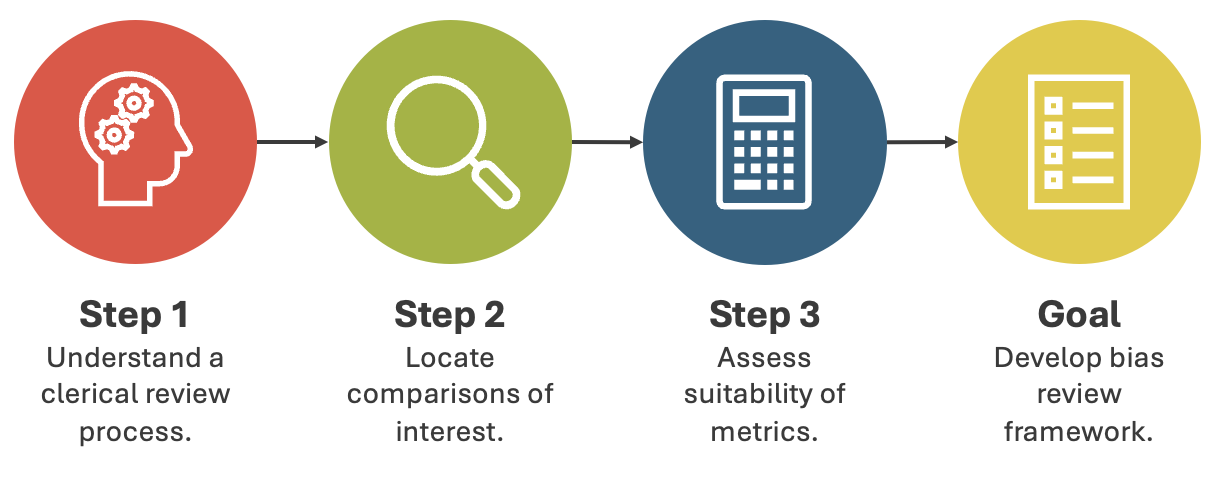
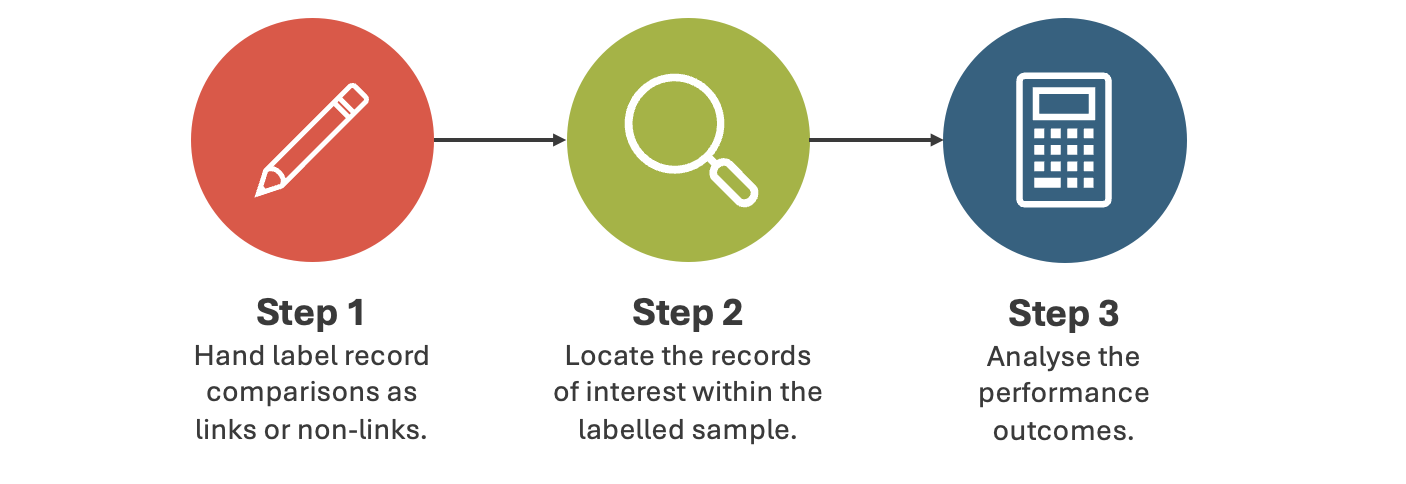
draft 2

diff --git a/docs/blog/posts/2024-07-11-bias.md b/docs/blog/posts/2024-07-11-bias.md
@@ -20,112 +20,91 @@ The internship stemmed from the team's [previous engagement with ethics](https:/
 
 Data science pipelines are intricate processes with lots of decision points. At each of these decision points bias can creep in. If it does, its impact on results can vary as it interacts with different parts of the pipeline. For example, two datasets might react differently to the same bias introduced by a model. Additionally, multiple biases can interact with each other, making it difficult to see their individual effects. Therefore, detecting, monitoring, quantifying, and mitigating bias in data science pipelines is extremely challenging.
 
-Bias can enter a data linking pipeline through two main areas - the **input data** and the **model design**: 
-
-![Image 1](./img/bias_chart.png){ width="650" height="310" }
-
-The input data can contain mistakes (misspellings of names), or legitimate qualities (changing names) which make some records harder to link than others. If these mistakes or qualities are not random, this means the input data will introduce bias. Addressing these mistakes or qualities through data preparation can also introduce bias through standardisation (character removal) or feature-engineering (phonetic representations of names).
-
-Model design settings such as blocking rules (exact name matches) or comparison algorithms (Jaro-Winkler similarity) dictate which records are compared and how they are compared. If these design choices result in a better/worse performance for certain record types, bias will be introduced.
-
-These upstream biases will impact the resulting linked data. When examining a dataset produced by a linkage pipeline, it's difficult to figure out _how_ exactly the biases in the pipeline have affected the data and pinpoint _where_ these biases came from.
-
-## 🪜 Initial steps
-
-The project began by conducting an initial review to address four main areas in relation to bias in data linking: 
-
-**1. Materials**
-
-Both the [wider government](https://www.gov.uk/government/collections/algorithmic-transparency-recording-standard-hub) and the [MoJ](https://www.turing.ac.uk/research/research-projects/building-ethical-framework-data-science-and-ai-criminal-justice-system) have been increasingly focused on the ethics of data science and data linking. Additionally, the Splink team had produced materials from a dedicated ethics away day and blog post. 
-
-**2. Interest areas**
-
-Talking with users and developers of different linkage applications was key to identifying where bias might exist in a pipeline. Their deep understanding of the input data and model design helped pinpoint these interest areas.
-
-**3. Methods or functionality**
-
-Several well-established performance evaluation strategies exist, like using [charts](https://moj-analytical-services.github.io/splink/topic_guides/evaluation/model.html) to explore models, [metrics](https://moj-analytical-services.github.io/splink/topic_guides/evaluation/edge_metrics.html) to analyse links, and [clusters](https://moj-analytical-services.github.io/splink/topic_guides/evaluation/clusters/overview.html) to review the output data. However, it wasn't clear if they could be used to address bias. 
-
-**4. Useful output**
-
-The main goal was to find out what users and developers of data linkage pipelines really need to tackle bias. While ideally, bias would be completely eliminated, most would settle for a controlled approach that’s flexible for their needs but still provides clear, standardised guidance.
-
 ## 🎯 Goals
 
-It was then time to establish some goals. These were based on an understanding of the complexities of dealing with bias in data science, and the findings of the initial review. 
+To set project goals, experts were consulted and relevant materials were reviewed. The overarching aim of the internship was to create something practical for users and developers to assess bias.
 
-Three key goals were defined: 
+While ideas on how exactly to achieve this varied, the general consensus was for a standardised framework to facilitate this assessment. This framework should help users with two processes:
 
-<span style="font-size: 0.8em;">&#9733;</span> Identify **areas of bias** within data linking pipelines.  
-<span style="font-size: 0.8em;">&#9733;</span> Understand if/how this bias **impacts performance**.   
-<span style="font-size: 0.8em;">&#9733;</span> Help users/developers **understand and investigate** this bias. 
+1. Identify potential **sources** of bias in a linkage pipeline.
+2. Evaluate the **impact** of bias on the linked data. 
 
-They were left relatively open-ended to allow for flexibility in the approach.  
+Before developing the framework, it was crucial to think about the best approach for these processes. 
 
-## 🔍 Clerical review
+## 🔍 Identifying the source
 
-Clerical review involves human experts manually checking and labelling data to establish a 'true' sample. This sample can be compared to predicted outcomes to shed light on how well an algorithm is performing. This is widely used in various data science fields like detection, prediction, and classification. It can also be used to evaluate data linkage by labelling record comparisons (deciding if they relate to the same person), before using these labels to calculate performance metrics. 
+Identifying bias sources in data linking varies by use case, making standardisation difficult. However, flexible guidelines can aid this process. To explore this, it was useful to identify general ways bias can enter a data linking pipeline:
 
-### <u>Concept</u>
+![Image 1](./img/bias_chart.png)
 
-Clerical review could be performed by any data linking user with labelled data. A standard approach usually focuses on overall performance, but the core methods and functionality could be adapted into an evaluation framework to tackle bias.
+The **input data** can contain mistakes (misspellings of names), or legitimate qualities (changing names) which make some records harder to link than others. If these mistakes or qualities are not random, this means the input data will introduce bias. Addressing these mistakes or qualities through data preparation (character removal) can also introduce bias.
 
-This framework could guide users through a clerical review process to investigate bias, offering practical tips on creating labelled samples, selecting records for comparison, choosing metrics, and interpreting results. Before creating this framework, it was important to make sure that a clerical review process was the right fit for this purpose.
+**Model design** involves specifying settings (which records to compare/how to compare them). If these design choices result in a better/worse performance for certain record types, bias will be introduced.
 
-This involved three main investigatory steps:
+This process can support a bias assessment framework by guiding users to explore their input data and model design choices. It helps lay the groundwork for evaluation by identifying interest areas to develop hypotheses about where bias occurs.
 
-![Image 2](./img/process_flow.png){ width="650" height="250" }
+## 📊 Evaluating the impact 
 
-### <u>Approach</u>
+Understanding the impact of bias requires a performance evaluation process for which there are several well-established strategies. For example using [charts](https://moj-analytical-services.github.io/splink/topic_guides/evaluation/model.html) to explore models, [metrics](https://moj-analytical-services.github.io/splink/topic_guides/evaluation/edge_metrics.html) to analyse links, and [clusters](https://moj-analytical-services.github.io/splink/topic_guides/evaluation/clusters/overview.html) to review the output data. 
 
-If all stages proved suitable, the framework would be developed.
+To streamline the project, link-based evaluation was chosen. This allows for a standard approach of classifying record comparisons and analysing outcomes. Analysing overall performance is less valuable here. Instead, the hypothesis from the [identification](#🔍-identifying-the-source) process can be used pinpoint records of interest.
 
-**Step 1**
+The process would follow three steps:
 
-First, it was necessary to understand a clerical review process for data linking, including how to decide if records relate to the same person.
+![Image 2](./img/process_flow.png)
 
-This review revealed uncertainties in establishing a clear ground truth...
+_Each step was investigated to uncover issues which could arise when attempting to evaluate bias..._
+
+### **Step 1: Hand label record comparisons**
+
+Firstly, records are labelled by human experts to decide if they relate to the same person, creating a 'true' sample of comparisons. This sample provides the base from which performance is analysed.
+
+When working with real data, it's not always clear whether records relate to the same individual... 
 
 ![Image 3](./img/record_eg.png)
 
- This highlights the need for complex linking methods - if record relationships were obvious, probabilistic data linking wouldn't be necessary. Therefore, this ambiguity is inherent to labelling real data. Additionally, linkage algorithms will perform well with clearly related records, so it is the ambiguous links that are the most interesting when addressing bias. 
+It can be difficult for even human evaluators to make these decisions, resulting in a lack of ground truth in the labels. In making this decision, further bias can be introduced. 
 
-**Step 2**
+### **Step 2: Locate records of interest**
 
-Bias performance evaluation is different from overall performance evaluation because it focusses on specific records rather than making big-picture conclusions.
+The second step is crucial for using performance evaluation to address bias. To find records of interest there are two main options, which will be demonstrated with the example of locating records with non-anglicised names:
 
-In data linking, locating these records leads to two main issues:
+ <u>Using variables as proxies</u>  
+Using ethnicity/nationality as a proxy for name origin relies on both accurate data recording and a presumed link between the variable and name origin.
 
-1. Using demographic variables (like gender or ethnicity) to represent records of interest is problematic because it relies on accurate data recording.  
+<u>Directly identifying features</u>  
+Creating a name origin detector. This depends on a robust theoretical and technical solution, which would be complex to develop and verify.
 
-2. Directly identifying records of interest is nearly impossible without a ground truth, requiring complex methods that might introduce more bias.
+Both options are likely to introduce bias.
 
-**Step 3**
+### **Step 3: Assess the performance outcomes**
 
-After creating labels and establishing samples, the next step is to assess performance. This normally involves using labelled comparisons and predicted outcomes to calculate metrics like precision and recall. Bias can be comparing performance across the different records of interest.  
+The final step is to analyse performance outcome by comparing the labelled data with the pipeline’s predictions to spot errors (false positives and false negatives). 
 
-Consider a scenario where performance is measured between two groups (a majority and minority demographic). In data linking, you might see results like:
+A high-level typical data linking performance may look like this:
 
-![Image 4](./img/confusion_matrix_eg.png){ width="600" height="300" }
+![Image 4](./img/confusion_matrix_1.png)
 
-These results would equate to a recall of 0.67 for both groups, and a precision of 0.91 for Group 1 and 1 for Group 2. 
+This represents the reality of the dominant class (non-links), leaving very few errors to evaluate. When analysing for bias, the focus would be on an even smaller subset of records of interest. 
 
-Comparing these results to make conclusions on bias is difficult. At a surface level, it might seem like the pipeline is biased against Group 1, but there are some factors to consider...
+A bias specific data linking performance may look like this:
 
-- There are **limited comparisons** for anything other than TNs. 
-- The minority demographic is **underrepresented**. 
-- The **source of the bias** is not indicated in these results.
+![Image 5](./img/confusion_matrix_2.png)
 
-Considering the findings from Step 1 and Step 2, there are some extra considerations... 
+This reduces the number of examples further, making it hard to spot patterns or draw solid conclusions on where things go wrong.
 
-- 'Actual' labels are based on an ambiguous **ground truth**.
-- **Records of interest** might not be represented in the defined groups. 
+Getting enough useful examples is possible, but it’s impractical. It would require either dedicating a lot more resources to labelling or using a sampling method that could introduce bias.
 
 ## 💡 Conclusions 
 
-A bias evaluation framework using a clerical review approach was not developed. The investigation showed that for data linking, the labelling process, comparison samples, and evaluation methods could not provide a solid foundation for bias investigation. This is due to the inherent ambiguity of using real data to investigate performance. 
+The initial investigation into creating a bias assessment framework looked at how to identify and evaluate bias. Bias identification can be standardised by highlighting pipeline areas and giving examples to guide users in developing hypotheses. However, finding a solution for the evaluation process is trickier. A common evaluation method showed three main issues:
 
-As a result, we're now exploring alternative data linking bias review approaches - **keep an eye out for future updates**!
+1. There is no 'ground truth' in labelling.
+2. Records of interest are difficult to identify.
+3. Gathering large samples of FPs and FNs is impractical.
+
+These challenges stem from working with real data and make this method unsuitable for the framework. We’re now looking into alternative evaluation approaches—**stay tuned for updates!**
+
 
 
 
